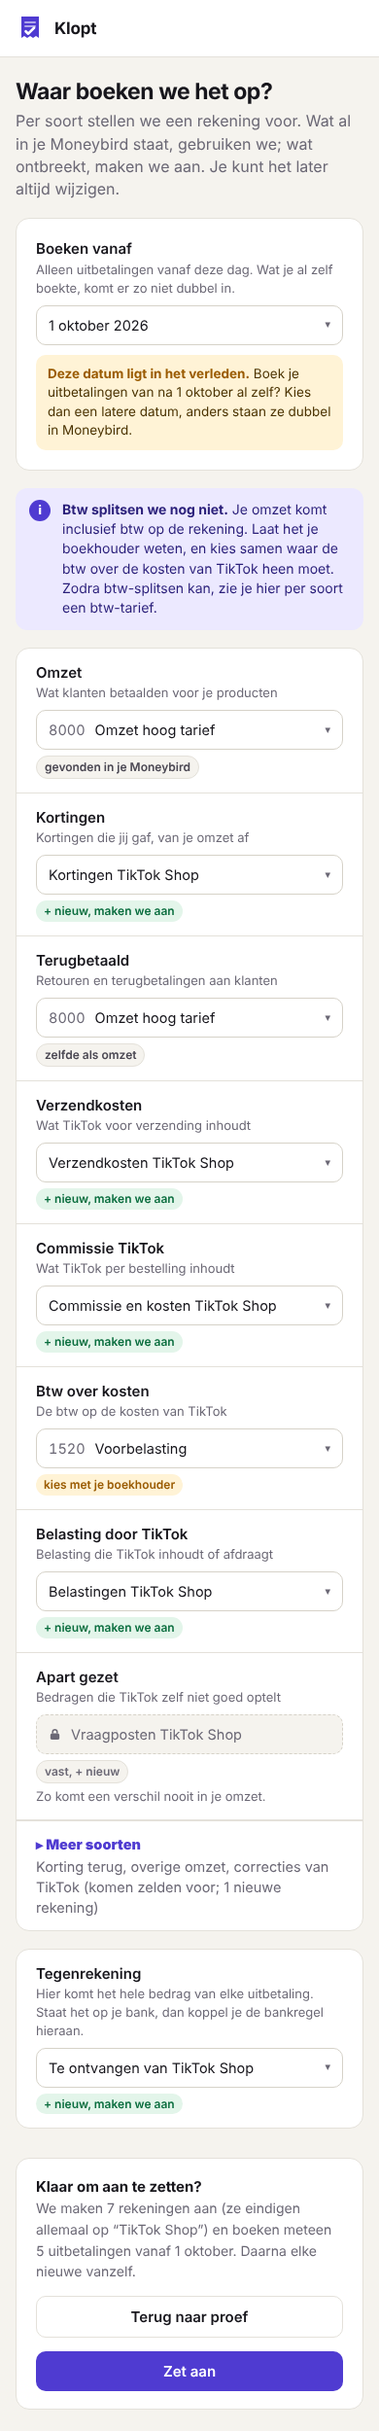
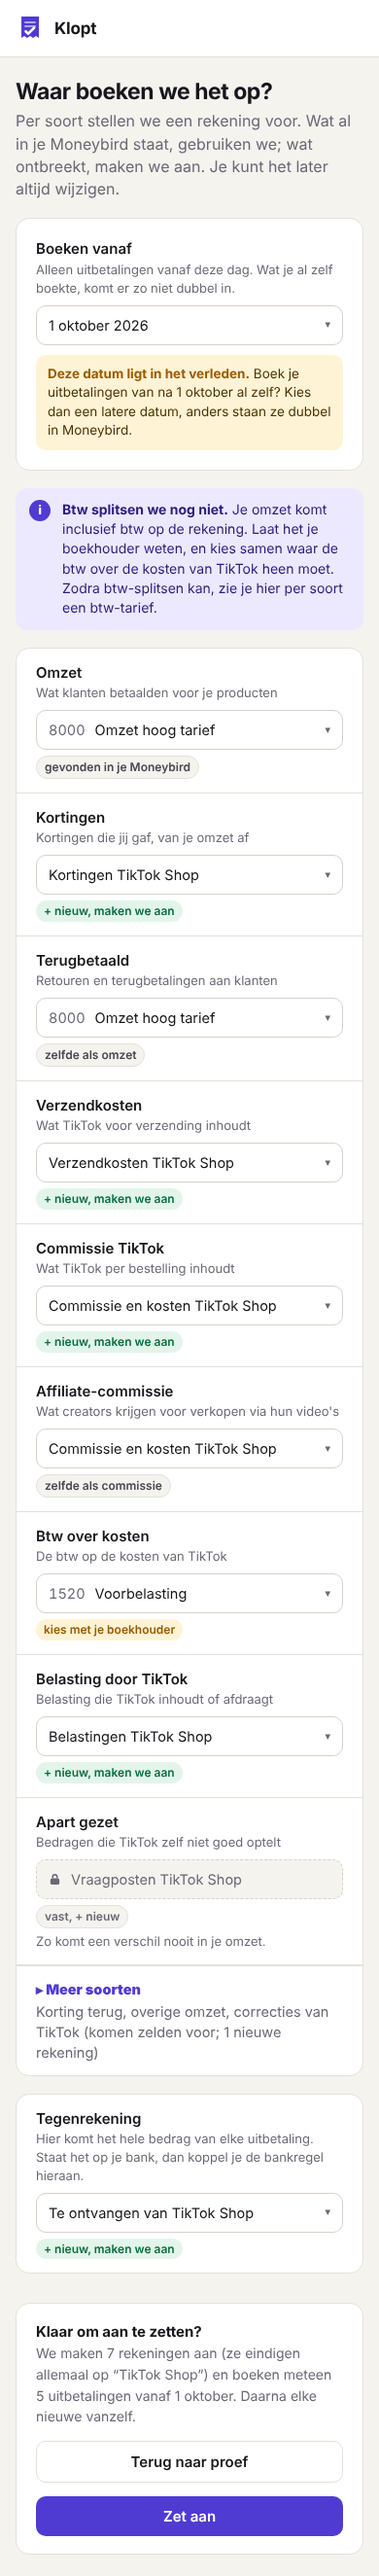
Daan: affiliate-commissie op scherm 3 (schetsen 6, 6b, 6c)
Claude-Session: https://claude.ai/code/session_01RMWUyhr6kouQETkv8ERixg

Changed region(s): [[0.0308, 0.0, 0.9231, 0.9984], [0.8308, 0.5304, 0.8923, 0.5616], [0.8923, 0.0312, 0.9231, 0.0624]]

diff --git a/producten/tiktok-boekhouding/kunst/6b-rekeningen-met-btw.html b/producten/tiktok-boekhouding/kunst/6b-rekeningen-met-btw.html
@@ -98,7 +98,7 @@ td.b,th.b{text-align:right}
 <div><div class="kies"><span class="n">1 oktober 2026</span><span class="pijl">&#9662;</span></div>
 <div class="noot" style="margin-top:10px"><b>Deze datum ligt in het verleden.</b> Boek je uitbetalingen van na 1 oktober al zelf? Kies dan een latere datum, anders staan ze dubbel in Moneybird.</div></div></div></div>
 
-<div class="kaart rek"><div class="kopr rij" style="padding-top:11px;padding-bottom:11px"><span>Soort</span><span>Rekening in Moneybird</span><span>Btw-tarief</span></div><div class="rij"><div class="soort"><b>Omzet</b><span>Wat klanten betaalden voor je producten</span></div><div><div class="kies"><span class="nr">8000</span><span class="n">Omzet hoog tarief</span><span class=pijl>&#9662;</span></div><span class="lab voor">gevonden in je Moneybird</span></div><div class="btwcel"><div class="kies"><span class="n">21% hoog</span><span class=pijl>&#9662;</span></div></div></div><div class="rij"><div class="soort"><b>Kortingen</b><span>Kortingen die jij gaf, van je omzet af</span></div><div><div class="kies"><span class="n">Kortingen TikTok Shop</span><span class=pijl>&#9662;</span></div><span class="lab nieuw">+ nieuw, maken we aan</span></div><div class="btwcel"><div class="kies"><span class="n">21% hoog</span><span class=pijl>&#9662;</span></div></div></div><div class="rij"><div class="soort"><b>Terugbetaald</b><span>Retouren en terugbetalingen aan klanten</span></div><div><div class="kies"><span class="nr">8000</span><span class="n">Omzet hoog tarief</span><span class=pijl>&#9662;</span></div><span class="lab voor">zelfde als omzet</span></div><div class="btwcel"><div class="kies"><span class="n">21% hoog</span><span class=pijl>&#9662;</span></div></div></div><div class="rij"><div class="soort"><b>Verzendkosten</b><span>Wat TikTok voor verzending inhoudt</span></div><div><div class="kies"><span class="n">Verzendkosten TikTok Shop</span><span class=pijl>&#9662;</span></div><span class="lab nieuw">+ nieuw, maken we aan</span></div><div class="btwcel"><div class="kies"><span class="n">Geen btw</span><span class=pijl>&#9662;</span></div></div></div><div class="rij"><div class="soort"><b>Commissie TikTok</b><span>Wat TikTok per bestelling inhoudt</span></div><div><div class="kies"><span class="n">Commissie en kosten TikTok Shop</span><span class=pijl>&#9662;</span></div><span class="lab nieuw">+ nieuw, maken we aan</span></div><div class="btwcel"><div class="kies"><span class="n">Geen btw</span><span class=pijl>&#9662;</span></div></div></div><div class="rij"><div class="soort"><b>Btw over kosten</b><span>De btw op de kosten van TikTok</span></div><div><div class="kies"><span class="nr">1520</span><span class="n">Voorbelasting</span><span class=pijl>&#9662;</span></div><span class="lab let">kies met je boekhouder</span></div><div class="btwcel"><div class="kies"><span class="n">Geen btw</span><span class=pijl>&#9662;</span></div></div></div><div class="rij"><div class="soort"><b>Belasting door TikTok</b><span>Belasting die TikTok inhoudt of afdraagt</span></div><div><div class="kies"><span class="n">Belastingen TikTok Shop</span><span class=pijl>&#9662;</span></div><span class="lab nieuw">+ nieuw, maken we aan</span></div><div class="btwcel"><div class="kies"><span class="n">Geen btw</span><span class=pijl>&#9662;</span></div></div></div><div class="rij"><div class="soort"><b>Apart gezet</b><span>Bedragen die TikTok zelf niet goed optelt</span></div><div><div class="kies vast"><svg class="slot" viewBox="0 0 14 14" aria-hidden="true"><rect x="2" y="6" width="10" height="7" rx="2" fill="#6B6875"/><path d="M4.5 6V4.5a2.5 2.5 0 015 0V6" stroke="#6B6875" stroke-width="1.6" fill="none"/></svg><span class="n">Vraagposten TikTok Shop</span></div><span class="lab vast">vast, + nieuw</span><span class="uitleg">Zo komt een verschil nooit in je omzet.</span></div><div class="btwcel"><div class="kies vast"><svg class="slot" viewBox="0 0 14 14" aria-hidden="true"><rect x="2" y="6" width="10" height="7" rx="2" fill="#6B6875"/><path d="M4.5 6V4.5a2.5 2.5 0 015 0V6" stroke="#6B6875" stroke-width="1.6" fill="none"/></svg><span class="n">Geen btw</span></div></div></div><div class="meer"><b>&#9656; Meer soorten</b> <span>Korting terug, overige omzet, correcties van TikTok (komen zelden voor; 1 nieuwe rekening)</span></div></div>
+<div class="kaart rek"><div class="kopr rij" style="padding-top:11px;padding-bottom:11px"><span>Soort</span><span>Rekening in Moneybird</span><span>Btw-tarief</span></div><div class="rij"><div class="soort"><b>Omzet</b><span>Wat klanten betaalden voor je producten</span></div><div><div class="kies"><span class="nr">8000</span><span class="n">Omzet hoog tarief</span><span class=pijl>&#9662;</span></div><span class="lab voor">gevonden in je Moneybird</span></div><div class="btwcel"><div class="kies"><span class="n">21% hoog</span><span class=pijl>&#9662;</span></div></div></div><div class="rij"><div class="soort"><b>Kortingen</b><span>Kortingen die jij gaf, van je omzet af</span></div><div><div class="kies"><span class="n">Kortingen TikTok Shop</span><span class=pijl>&#9662;</span></div><span class="lab nieuw">+ nieuw, maken we aan</span></div><div class="btwcel"><div class="kies"><span class="n">21% hoog</span><span class=pijl>&#9662;</span></div></div></div><div class="rij"><div class="soort"><b>Terugbetaald</b><span>Retouren en terugbetalingen aan klanten</span></div><div><div class="kies"><span class="nr">8000</span><span class="n">Omzet hoog tarief</span><span class=pijl>&#9662;</span></div><span class="lab voor">zelfde als omzet</span></div><div class="btwcel"><div class="kies"><span class="n">21% hoog</span><span class=pijl>&#9662;</span></div></div></div><div class="rij"><div class="soort"><b>Verzendkosten</b><span>Wat TikTok voor verzending inhoudt</span></div><div><div class="kies"><span class="n">Verzendkosten TikTok Shop</span><span class=pijl>&#9662;</span></div><span class="lab nieuw">+ nieuw, maken we aan</span></div><div class="btwcel"><div class="kies"><span class="n">Geen btw</span><span class=pijl>&#9662;</span></div></div></div><div class="rij"><div class="soort"><b>Commissie TikTok</b><span>Wat TikTok per bestelling inhoudt</span></div><div><div class="kies"><span class="n">Commissie en kosten TikTok Shop</span><span class=pijl>&#9662;</span></div><span class="lab nieuw">+ nieuw, maken we aan</span></div><div class="btwcel"><div class="kies"><span class="n">Geen btw</span><span class=pijl>&#9662;</span></div></div></div><div class="rij"><div class="soort"><b>Affiliate-commissie</b><span>Wat creators krijgen voor verkopen via hun video's</span></div><div><div class="kies"><span class="n">Commissie en kosten TikTok Shop</span><span class=pijl>&#9662;</span></div><span class="lab voor">zelfde als commissie</span></div><div class="btwcel"><div class="kies"><span class="n">Geen btw</span><span class=pijl>&#9662;</span></div></div></div><div class="rij"><div class="soort"><b>Btw over kosten</b><span>De btw op de kosten van TikTok</span></div><div><div class="kies"><span class="nr">1520</span><span class="n">Voorbelasting</span><span class=pijl>&#9662;</span></div><span class="lab let">kies met je boekhouder</span></div><div class="btwcel"><div class="kies"><span class="n">Geen btw</span><span class=pijl>&#9662;</span></div></div></div><div class="rij"><div class="soort"><b>Belasting door TikTok</b><span>Belasting die TikTok inhoudt of afdraagt</span></div><div><div class="kies"><span class="n">Belastingen TikTok Shop</span><span class=pijl>&#9662;</span></div><span class="lab nieuw">+ nieuw, maken we aan</span></div><div class="btwcel"><div class="kies"><span class="n">Geen btw</span><span class=pijl>&#9662;</span></div></div></div><div class="rij"><div class="soort"><b>Apart gezet</b><span>Bedragen die TikTok zelf niet goed optelt</span></div><div><div class="kies vast"><svg class="slot" viewBox="0 0 14 14" aria-hidden="true"><rect x="2" y="6" width="10" height="7" rx="2" fill="#6B6875"/><path d="M4.5 6V4.5a2.5 2.5 0 015 0V6" stroke="#6B6875" stroke-width="1.6" fill="none"/></svg><span class="n">Vraagposten TikTok Shop</span></div><span class="lab vast">vast, + nieuw</span><span class="uitleg">Zo komt een verschil nooit in je omzet.</span></div><div class="btwcel"><div class="kies vast"><svg class="slot" viewBox="0 0 14 14" aria-hidden="true"><rect x="2" y="6" width="10" height="7" rx="2" fill="#6B6875"/><path d="M4.5 6V4.5a2.5 2.5 0 015 0V6" stroke="#6B6875" stroke-width="1.6" fill="none"/></svg><span class="n">Geen btw</span></div></div></div><div class="meer"><b>&#9656; Meer soorten</b> <span>Korting terug, overige omzet, correcties van TikTok (komen zelden voor; 1 nieuwe rekening)</span></div></div>
 <div class="kaart rek"><div class="rij"><div class="soort"><b>Tegenrekening</b><span>Hier komt het hele bedrag van elke uitbetaling. Staat het op je bank, dan koppel je de bankregel hieraan.</span></div><div><div class="kies"><span class="n">Te ontvangen van TikTok Shop</span><span class=pijl>&#9662;</span></div><span class="lab nieuw">+ nieuw, maken we aan</span></div></div></div>
 <div class="balk"><div class="t"><b>Klaar om aan te zetten?</b><span>We maken 7 rekeningen aan (ze eindigen allemaal op &ldquo;TikTok Shop&rdquo;) en boeken meteen 5 uitbetalingen vanaf 1 oktober. Daarna elke nieuwe vanzelf.</span></div>
 <button class="knop rustig">Terug naar proef</button><button class="knop hoofd">Zet aan</button></div></main></body></html>

diff --git a/producten/tiktok-boekhouding/kunst/6-rekeningen.html b/producten/tiktok-boekhouding/kunst/6-rekeningen.html
@@ -98,7 +98,7 @@ td.b,th.b{text-align:right}
 <div><div class="kies"><span class="n">1 oktober 2026</span><span class="pijl">&#9662;</span></div>
 <div class="noot" style="margin-top:10px"><b>Deze datum ligt in het verleden.</b> Boek je uitbetalingen van na 1 oktober al zelf? Kies dan een latere datum, anders staan ze dubbel in Moneybird.</div></div></div></div>
 <div class="info"><i>i</i><div><b>Btw splitsen we nog niet.</b> Je omzet komt inclusief btw op de rekening. Laat het je boekhouder weten, en kies samen waar de btw over de kosten van TikTok heen moet. Zodra btw-splitsen kan, zie je hier per soort een btw-tarief.</div></div>
-<div class="kaart rek"><div class="kopr rij" style="padding-top:11px;padding-bottom:11px"><span>Soort</span><span>Rekening in Moneybird</span></div><div class="rij"><div class="soort"><b>Omzet</b><span>Wat klanten betaalden voor je producten</span></div><div><div class="kies"><span class="nr">8000</span><span class="n">Omzet hoog tarief</span><span class=pijl>&#9662;</span></div><span class="lab voor">gevonden in je Moneybird</span></div></div><div class="rij"><div class="soort"><b>Kortingen</b><span>Kortingen die jij gaf, van je omzet af</span></div><div><div class="kies"><span class="n">Kortingen TikTok Shop</span><span class=pijl>&#9662;</span></div><span class="lab nieuw">+ nieuw, maken we aan</span></div></div><div class="rij"><div class="soort"><b>Terugbetaald</b><span>Retouren en terugbetalingen aan klanten</span></div><div><div class="kies"><span class="nr">8000</span><span class="n">Omzet hoog tarief</span><span class=pijl>&#9662;</span></div><span class="lab voor">zelfde als omzet</span></div></div><div class="rij"><div class="soort"><b>Verzendkosten</b><span>Wat TikTok voor verzending inhoudt</span></div><div><div class="kies"><span class="n">Verzendkosten TikTok Shop</span><span class=pijl>&#9662;</span></div><span class="lab nieuw">+ nieuw, maken we aan</span></div></div><div class="rij"><div class="soort"><b>Commissie TikTok</b><span>Wat TikTok per bestelling inhoudt</span></div><div><div class="kies"><span class="n">Commissie en kosten TikTok Shop</span><span class=pijl>&#9662;</span></div><span class="lab nieuw">+ nieuw, maken we aan</span></div></div><div class="rij"><div class="soort"><b>Btw over kosten</b><span>De btw op de kosten van TikTok</span></div><div><div class="kies"><span class="nr">1520</span><span class="n">Voorbelasting</span><span class=pijl>&#9662;</span></div><span class="lab let">kies met je boekhouder</span></div></div><div class="rij"><div class="soort"><b>Belasting door TikTok</b><span>Belasting die TikTok inhoudt of afdraagt</span></div><div><div class="kies"><span class="n">Belastingen TikTok Shop</span><span class=pijl>&#9662;</span></div><span class="lab nieuw">+ nieuw, maken we aan</span></div></div><div class="rij"><div class="soort"><b>Apart gezet</b><span>Bedragen die TikTok zelf niet goed optelt</span></div><div><div class="kies vast"><svg class="slot" viewBox="0 0 14 14" aria-hidden="true"><rect x="2" y="6" width="10" height="7" rx="2" fill="#6B6875"/><path d="M4.5 6V4.5a2.5 2.5 0 015 0V6" stroke="#6B6875" stroke-width="1.6" fill="none"/></svg><span class="n">Vraagposten TikTok Shop</span></div><span class="lab vast">vast, + nieuw</span><span class="uitleg">Zo komt een verschil nooit in je omzet.</span></div></div><div class="meer"><b>&#9656; Meer soorten</b> <span>Korting terug, overige omzet, correcties van TikTok (komen zelden voor; 1 nieuwe rekening)</span></div></div>
+<div class="kaart rek"><div class="kopr rij" style="padding-top:11px;padding-bottom:11px"><span>Soort</span><span>Rekening in Moneybird</span></div><div class="rij"><div class="soort"><b>Omzet</b><span>Wat klanten betaalden voor je producten</span></div><div><div class="kies"><span class="nr">8000</span><span class="n">Omzet hoog tarief</span><span class=pijl>&#9662;</span></div><span class="lab voor">gevonden in je Moneybird</span></div></div><div class="rij"><div class="soort"><b>Kortingen</b><span>Kortingen die jij gaf, van je omzet af</span></div><div><div class="kies"><span class="n">Kortingen TikTok Shop</span><span class=pijl>&#9662;</span></div><span class="lab nieuw">+ nieuw, maken we aan</span></div></div><div class="rij"><div class="soort"><b>Terugbetaald</b><span>Retouren en terugbetalingen aan klanten</span></div><div><div class="kies"><span class="nr">8000</span><span class="n">Omzet hoog tarief</span><span class=pijl>&#9662;</span></div><span class="lab voor">zelfde als omzet</span></div></div><div class="rij"><div class="soort"><b>Verzendkosten</b><span>Wat TikTok voor verzending inhoudt</span></div><div><div class="kies"><span class="n">Verzendkosten TikTok Shop</span><span class=pijl>&#9662;</span></div><span class="lab nieuw">+ nieuw, maken we aan</span></div></div><div class="rij"><div class="soort"><b>Commissie TikTok</b><span>Wat TikTok per bestelling inhoudt</span></div><div><div class="kies"><span class="n">Commissie en kosten TikTok Shop</span><span class=pijl>&#9662;</span></div><span class="lab nieuw">+ nieuw, maken we aan</span></div></div><div class="rij"><div class="soort"><b>Affiliate-commissie</b><span>Wat creators krijgen voor verkopen via hun video's</span></div><div><div class="kies"><span class="n">Commissie en kosten TikTok Shop</span><span class=pijl>&#9662;</span></div><span class="lab voor">zelfde als commissie</span></div></div><div class="rij"><div class="soort"><b>Btw over kosten</b><span>De btw op de kosten van TikTok</span></div><div><div class="kies"><span class="nr">1520</span><span class="n">Voorbelasting</span><span class=pijl>&#9662;</span></div><span class="lab let">kies met je boekhouder</span></div></div><div class="rij"><div class="soort"><b>Belasting door TikTok</b><span>Belasting die TikTok inhoudt of afdraagt</span></div><div><div class="kies"><span class="n">Belastingen TikTok Shop</span><span class=pijl>&#9662;</span></div><span class="lab nieuw">+ nieuw, maken we aan</span></div></div><div class="rij"><div class="soort"><b>Apart gezet</b><span>Bedragen die TikTok zelf niet goed optelt</span></div><div><div class="kies vast"><svg class="slot" viewBox="0 0 14 14" aria-hidden="true"><rect x="2" y="6" width="10" height="7" rx="2" fill="#6B6875"/><path d="M4.5 6V4.5a2.5 2.5 0 015 0V6" stroke="#6B6875" stroke-width="1.6" fill="none"/></svg><span class="n">Vraagposten TikTok Shop</span></div><span class="lab vast">vast, + nieuw</span><span class="uitleg">Zo komt een verschil nooit in je omzet.</span></div></div><div class="meer"><b>&#9656; Meer soorten</b> <span>Korting terug, overige omzet, correcties van TikTok (komen zelden voor; 1 nieuwe rekening)</span></div></div>
 <div class="kaart rek"><div class="rij"><div class="soort"><b>Tegenrekening</b><span>Hier komt het hele bedrag van elke uitbetaling. Staat het op je bank, dan koppel je de bankregel hieraan.</span></div><div><div class="kies"><span class="n">Te ontvangen van TikTok Shop</span><span class=pijl>&#9662;</span></div><span class="lab nieuw">+ nieuw, maken we aan</span></div></div></div>
 <div class="balk"><div class="t"><b>Klaar om aan te zetten?</b><span>We maken 7 rekeningen aan (ze eindigen allemaal op &ldquo;TikTok Shop&rdquo;) en boeken meteen 5 uitbetalingen vanaf 1 oktober. Daarna elke nieuwe vanzelf.</span></div>
 <button class="knop rustig">Terug naar proef</button><button class="knop hoofd">Zet aan</button></div></main></body></html>

diff --git a/producten/tiktok-boekhouding/kunst/6c-rekeningen-telefoon.html b/producten/tiktok-boekhouding/kunst/6c-rekeningen-telefoon.html
@@ -98,7 +98,7 @@ td.b,th.b{text-align:right}
 <div><div class="kies"><span class="n">1 oktober 2026</span><span class="pijl">&#9662;</span></div>
 <div class="noot" style="margin-top:10px"><b>Deze datum ligt in het verleden.</b> Boek je uitbetalingen van na 1 oktober al zelf? Kies dan een latere datum, anders staan ze dubbel in Moneybird.</div></div></div></div>
 <div class="info"><i>i</i><div><b>Btw splitsen we nog niet.</b> Je omzet komt inclusief btw op de rekening. Laat het je boekhouder weten, en kies samen waar de btw over de kosten van TikTok heen moet. Zodra btw-splitsen kan, zie je hier per soort een btw-tarief.</div></div>
-<div class="kaart rek"><div class="kopr rij" style="padding-top:11px;padding-bottom:11px"><span>Soort</span><span>Rekening in Moneybird</span></div><div class="rij"><div class="soort"><b>Omzet</b><span>Wat klanten betaalden voor je producten</span></div><div><div class="kies"><span class="nr">8000</span><span class="n">Omzet hoog tarief</span><span class=pijl>&#9662;</span></div><span class="lab voor">gevonden in je Moneybird</span></div></div><div class="rij"><div class="soort"><b>Kortingen</b><span>Kortingen die jij gaf, van je omzet af</span></div><div><div class="kies"><span class="n">Kortingen TikTok Shop</span><span class=pijl>&#9662;</span></div><span class="lab nieuw">+ nieuw, maken we aan</span></div></div><div class="rij"><div class="soort"><b>Terugbetaald</b><span>Retouren en terugbetalingen aan klanten</span></div><div><div class="kies"><span class="nr">8000</span><span class="n">Omzet hoog tarief</span><span class=pijl>&#9662;</span></div><span class="lab voor">zelfde als omzet</span></div></div><div class="rij"><div class="soort"><b>Verzendkosten</b><span>Wat TikTok voor verzending inhoudt</span></div><div><div class="kies"><span class="n">Verzendkosten TikTok Shop</span><span class=pijl>&#9662;</span></div><span class="lab nieuw">+ nieuw, maken we aan</span></div></div><div class="rij"><div class="soort"><b>Commissie TikTok</b><span>Wat TikTok per bestelling inhoudt</span></div><div><div class="kies"><span class="n">Commissie en kosten TikTok Shop</span><span class=pijl>&#9662;</span></div><span class="lab nieuw">+ nieuw, maken we aan</span></div></div><div class="rij"><div class="soort"><b>Btw over kosten</b><span>De btw op de kosten van TikTok</span></div><div><div class="kies"><span class="nr">1520</span><span class="n">Voorbelasting</span><span class=pijl>&#9662;</span></div><span class="lab let">kies met je boekhouder</span></div></div><div class="rij"><div class="soort"><b>Belasting door TikTok</b><span>Belasting die TikTok inhoudt of afdraagt</span></div><div><div class="kies"><span class="n">Belastingen TikTok Shop</span><span class=pijl>&#9662;</span></div><span class="lab nieuw">+ nieuw, maken we aan</span></div></div><div class="rij"><div class="soort"><b>Apart gezet</b><span>Bedragen die TikTok zelf niet goed optelt</span></div><div><div class="kies vast"><svg class="slot" viewBox="0 0 14 14" aria-hidden="true"><rect x="2" y="6" width="10" height="7" rx="2" fill="#6B6875"/><path d="M4.5 6V4.5a2.5 2.5 0 015 0V6" stroke="#6B6875" stroke-width="1.6" fill="none"/></svg><span class="n">Vraagposten TikTok Shop</span></div><span class="lab vast">vast, + nieuw</span><span class="uitleg">Zo komt een verschil nooit in je omzet.</span></div></div><div class="meer"><b>&#9656; Meer soorten</b> <span>Korting terug, overige omzet, correcties van TikTok (komen zelden voor; 1 nieuwe rekening)</span></div></div>
+<div class="kaart rek"><div class="kopr rij" style="padding-top:11px;padding-bottom:11px"><span>Soort</span><span>Rekening in Moneybird</span></div><div class="rij"><div class="soort"><b>Omzet</b><span>Wat klanten betaalden voor je producten</span></div><div><div class="kies"><span class="nr">8000</span><span class="n">Omzet hoog tarief</span><span class=pijl>&#9662;</span></div><span class="lab voor">gevonden in je Moneybird</span></div></div><div class="rij"><div class="soort"><b>Kortingen</b><span>Kortingen die jij gaf, van je omzet af</span></div><div><div class="kies"><span class="n">Kortingen TikTok Shop</span><span class=pijl>&#9662;</span></div><span class="lab nieuw">+ nieuw, maken we aan</span></div></div><div class="rij"><div class="soort"><b>Terugbetaald</b><span>Retouren en terugbetalingen aan klanten</span></div><div><div class="kies"><span class="nr">8000</span><span class="n">Omzet hoog tarief</span><span class=pijl>&#9662;</span></div><span class="lab voor">zelfde als omzet</span></div></div><div class="rij"><div class="soort"><b>Verzendkosten</b><span>Wat TikTok voor verzending inhoudt</span></div><div><div class="kies"><span class="n">Verzendkosten TikTok Shop</span><span class=pijl>&#9662;</span></div><span class="lab nieuw">+ nieuw, maken we aan</span></div></div><div class="rij"><div class="soort"><b>Commissie TikTok</b><span>Wat TikTok per bestelling inhoudt</span></div><div><div class="kies"><span class="n">Commissie en kosten TikTok Shop</span><span class=pijl>&#9662;</span></div><span class="lab nieuw">+ nieuw, maken we aan</span></div></div><div class="rij"><div class="soort"><b>Affiliate-commissie</b><span>Wat creators krijgen voor verkopen via hun video's</span></div><div><div class="kies"><span class="n">Commissie en kosten TikTok Shop</span><span class=pijl>&#9662;</span></div><span class="lab voor">zelfde als commissie</span></div></div><div class="rij"><div class="soort"><b>Btw over kosten</b><span>De btw op de kosten van TikTok</span></div><div><div class="kies"><span class="nr">1520</span><span class="n">Voorbelasting</span><span class=pijl>&#9662;</span></div><span class="lab let">kies met je boekhouder</span></div></div><div class="rij"><div class="soort"><b>Belasting door TikTok</b><span>Belasting die TikTok inhoudt of afdraagt</span></div><div><div class="kies"><span class="n">Belastingen TikTok Shop</span><span class=pijl>&#9662;</span></div><span class="lab nieuw">+ nieuw, maken we aan</span></div></div><div class="rij"><div class="soort"><b>Apart gezet</b><span>Bedragen die TikTok zelf niet goed optelt</span></div><div><div class="kies vast"><svg class="slot" viewBox="0 0 14 14" aria-hidden="true"><rect x="2" y="6" width="10" height="7" rx="2" fill="#6B6875"/><path d="M4.5 6V4.5a2.5 2.5 0 015 0V6" stroke="#6B6875" stroke-width="1.6" fill="none"/></svg><span class="n">Vraagposten TikTok Shop</span></div><span class="lab vast">vast, + nieuw</span><span class="uitleg">Zo komt een verschil nooit in je omzet.</span></div></div><div class="meer"><b>&#9656; Meer soorten</b> <span>Korting terug, overige omzet, correcties van TikTok (komen zelden voor; 1 nieuwe rekening)</span></div></div>
 <div class="kaart rek"><div class="rij"><div class="soort"><b>Tegenrekening</b><span>Hier komt het hele bedrag van elke uitbetaling. Staat het op je bank, dan koppel je de bankregel hieraan.</span></div><div><div class="kies"><span class="n">Te ontvangen van TikTok Shop</span><span class=pijl>&#9662;</span></div><span class="lab nieuw">+ nieuw, maken we aan</span></div></div></div>
 <div class="balk"><div class="t"><b>Klaar om aan te zetten?</b><span>We maken 7 rekeningen aan (ze eindigen allemaal op &ldquo;TikTok Shop&rdquo;) en boeken meteen 5 uitbetalingen vanaf 1 oktober. Daarna elke nieuwe vanzelf.</span></div>
 <button class="knop rustig">Terug naar proef</button><button class="knop hoofd">Zet aan</button></div></main></body></html>

diff --git a/producten/tiktok-boekhouding/kunst/maak.py b/producten/tiktok-boekhouding/kunst/maak.py
@@ -189,6 +189,7 @@ def rekeningen(met_btw=False):
         labels = {"gevonden": '<span class="lab voor">gevonden in je Moneybird</span>',
                   "nieuw": '<span class="lab nieuw">+ nieuw, maken we aan</span>',
                   "zelfde": '<span class="lab voor">zelfde als omzet</span>',
+                  "zelfde-commissie": '<span class="lab voor">zelfde als commissie</span>',
                   "boekhouder": '<span class="lab let">kies met je boekhouder</span>',
                   "vast": '<span class="lab vast">vast, + nieuw</span><span class="uitleg">Zo komt een verschil nooit in je omzet.</span>'}
         btwcel = f'<div class="btwcel">{kies("", btw, vast)}</div>' if met_btw else ""
@@ -198,6 +199,7 @@ def rekeningen(met_btw=False):
         + rij("Terugbetaald", "Retouren en terugbetalingen aan klanten", "8000", "Omzet hoog tarief", "zelfde", "21% hoog")
         + rij("Verzendkosten", "Wat TikTok voor verzending inhoudt", "", "Verzendkosten TikTok Shop", "nieuw", "Geen btw")
         + rij("Commissie TikTok", "Wat TikTok per bestelling inhoudt", "", "Commissie en kosten TikTok Shop", "nieuw", "Geen btw")
+        + rij("Affiliate-commissie", "Wat creators krijgen voor verkopen via hun video's", "", "Commissie en kosten TikTok Shop", "zelfde-commissie", "Geen btw")
         + rij("Btw over kosten", "De btw op de kosten van TikTok", "1520", "Voorbelasting", "boekhouder", "Geen btw")
         + rij("Belasting door TikTok", "Belasting die TikTok inhoudt of afdraagt", "", "Belastingen TikTok Shop", "nieuw", "Geen btw")
         + rij("Apart gezet", "Bedragen die TikTok zelf niet goed optelt", "", "Vraagposten TikTok Shop", "vast", "Geen btw", vast=True))

diff --git a/platformen/tiktok-shop/taken.md b/platformen/tiktok-shop/taken.md
@@ -5,7 +5,7 @@ Aangemaakt door Hans op 8 nov 2026. De berichten van Thijs in `berichten/tess.md
 ## Open nu (Tess, 9 nov 21:12 UTC)
 - [x] **(Tess) Wie factureert TikTok-kosten, en met welke btw? (af 10 nov 03:40 UTC).** Uit de EU Seller Terms (30 sep 2026, GEZIEN): contractpartij is TikTok Technology Limited (IE), bezorging (last mile) via TikTok Logistics Netherlands, affiliate-commissie komt van creators. Commissie dus btw verlegd (4b/5b, IT: TD17), mits TikTok het btw-nummer heeft; bezorging voor NL-verkopers mogelijk met 21% NL-btw (GOK). `onderzoek/2026-11-10-tiktok-entiteit-btw.md`, controleur akkoord mits, verwerkt.
 - [x] (af 10 nov 04:20 UTC, Jet: **kan niet in versie 1.** Proef 2 in de sandbox (run 42753478194, controleur akkoord na 3 rondes): een nieuwe administratie heeft geen verlegd tarief (ook niet inactief), de API kan geen tarief maken, en een gewoon inkooptarief op een memoriaalregel komt wel in het btw-rapport (NL/5b, grondslag 10) maar zonder btw (0.0). Dus Klopt geeft geen tarief mee en **Daan: zin 2 op het koppelscherm geldt** ("vul rubriek 4b en 5b zelf in"). Bezorgkosten en `fee_tax_breakdown.tax` blijven GOK in `rgs-codes.md`. Of een verlegd tarief in een memoriaal wel 4b en 5b vult, test ik als Thijs het tarief in de sandbox aanzet (±2 min, niet dringend, op zijn lijst). Uitslag in `producten/tiktok-boekhouding/ontwerp-moneybird.md`. **Voor Tess:** de proef 1-zin "verkooptarief stil genegeerd" was te stellig, staat gecorrigeerd. Affiliate-commissie apart: zie nieuwe taak hieronder.) **(Jet) Verlegde btw op de commissie, uit het btw-onderzoek van Tess (10 nov):** een tekst in de omschrijving vult rubriek 4b en 5b niet. Ga in de Moneybird-API (`tax_rates`, sandbox "Klopt test") na of er een inkooptarief voor verlegde btw op diensten uit de EU is en of Klopt dat op de commissieregel van het memoriaal kan meegeven. Laat ook bezorgkosten en `fee_tax_breakdown.tax` voorlopig als GOK in `rgs-codes.md` staan (zie punt 2 en de twee uitleggen in het onderzoek). Affiliate-commissie: omschrijving "affiliate-commissie (creators)", niet TikTok als leverancier. Zeg Tess de uitkomst; kan het niet, dan vraagt Daan een zin op het koppelscherm.
-- [ ] **(Daan) Scherm 3 rekeningen: soort "Affiliate-commissie (creators)" erbij (Jet, 10 nov 04:25 UTC).** De schetsen `kunst/6-rekeningen.html`, 6b en 6c tonen hem nog niet. Zonder eigen keuze boekt Klopt hem op de commissierekening, dus het mag een optionele regel zijn. Niet dringend.
+- [x] (af 10 nov 04:55 UTC, Daan: regel onder Commissie TikTok in 6, 6b en 6c, label "zelfde als commissie", zie onderaan `producten/tiktok-boekhouding/ontwerp.md`) **(Daan) Scherm 3 rekeningen: soort "Affiliate-commissie (creators)" erbij (Jet, 10 nov 04:25 UTC).** De schetsen `kunst/6-rekeningen.html`, 6b en 6c tonen hem nog niet. Zonder eigen keuze boekt Klopt hem op de commissierekening, dus het mag een optionele regel zijn. Niet dringend.
 - [x] (af 10 nov 04:25 UTC, Jet: gebouwd volgens `ontwerp-affiliate.md`; rekenkern `soortVanKostenveld`, memoriaal "TikTok Shop affiliate-commissie (creators)" direct na de commissie, terugval op de commissierekening zonder btw-tarief, RGS met zoeken op naam. 50 en 298 tests groen, geen bestaande test gewijzigd, code-controleur akkoord na 2 rondes (ronde 1: vingerafdruk niet getoetst). Oude boekingen blijven zoals ze zijn. Op main via tak `-n`.) **(Jet) Affiliate-commissie als eigen regel (uit de taak hierboven, 10 nov 04:20 UTC).** Nu gaat elk veld uit `fee_tax_breakdown.fee` naar de soort `commissie` (`tiktok-shop-basis/src/boekingen.ts` r.180), dus de omschrijving zegt "commissie en kosten" van TikTok, ook voor wat creators krijgen. Plan: in de rekenkern de affiliate-velden (namen uit de docs van Get Transactions by Statement nagaan) naar een nieuwe soort `affiliate` met omschrijving "affiliate-commissie (creators)", RGS-code kiezen, `SOORTEN` in `memoriaal.ts`, tests. Eerst kort ontwerp met controleur (regel 0). **Ontwerp af (Jet, 10 nov 04:20 UTC):** `producten/tiktok-boekhouding/ontwerp-affiliate.md`, controleur akkoord na 2 rondes (o.a. `tap_shop_ads_commission` hoort erbij, terugval op de commissierekening zonder btw-tarief, oude boekingen blijven staan). Volgende stap: bouwen op een tak, eisen (a) tot (h).
 - [ ] **(Daan, ontwerp staat 10 nov 03:40 UTC in `producten/tiktok-boekhouding/ontwerp.md`, onderaan, beide varianten; Jet kiest na zijn uitkomst)** Eén zin hulptekst op het koppelscherm, na de uitkomst van Jet hierboven:** "Controleer of je btw-nummer in Seller Center staat" (zonder btw-nummer rekent TikTok Ierse btw) en, als Klopt geen verlegd tarief kan meegeven, "Commissie van TikTok is btw verlegd: vul rubriek 4b en 5b zelf in." Niet dringend.
 - [x] **(Tess) Eerste euro: wanneer, en kan het sneller? (af 9 nov 23:15 UTC)** Naar aanleiding van Thijs 10 nov 00:05. Niet eerder dan 4 tot 8 weken na de KvK; upload-variant zonder TikTok afgeraden. `onderzoek/2026-11-10-eerste-euro.md`, controleur akkoord mits, verwerkt. Ter info bij Hans gezet.

diff --git a/producten/tiktok-boekhouding/ontwerp.md b/producten/tiktok-boekhouding/ontwerp.md
@@ -182,3 +182,9 @@ Kan Klopt het tarief wel meegeven: zin 2 vervalt helemaal, ook in het detailsche
 
 **Alleen voor kosten van TikTok Technology Limited** (onderzoek Tess): affiliate-commissie krijgt geen van beide zinnen.
 **Waarom zo:** de verkoper moet het lezen op het moment dat hij zijn rekeningen kiest, niet pas bij de aangifte; paars voor de controle (niets mis), amber voor wat hij zelf moet doen, nooit rood.
+
+## Daan: affiliate-commissie op scherm 3 (10 nov 04:55 UTC)
+Op verzoek van Jet (taken 04:25). Nieuwe regel direct onder Commissie TikTok, in alle drie de schetsen (`kunst/6-rekeningen`, `6b` met btw, `6c` telefoon; bron `kunst/maak.py`, met Read bekeken op 1280 en 390):
+- **Affiliate-commissie**, uitleg "Wat creators krijgen voor verkopen via hun video's".
+- Voorstel: rekening **Commissie en kosten TikTok Shop** met het grijze label **"zelfde als commissie"** (zelfde vorm als "zelfde als omzet" bij Terugbetaald). Btw-kolom in 6b: Geen btw, want de affiliate-regel neemt nooit het btw-tarief van de commissie over (Jet).
+- Waarom een gewone regel en niet onder "Meer soorten": bij veel TikTok-winkels is dit na de commissie de grootste kostenpost, dus de verkoper wil hem zien. Er komt geen nieuwe rekening bij, dus de telling in de balk ("7 rekeningen") blijft kloppen.
